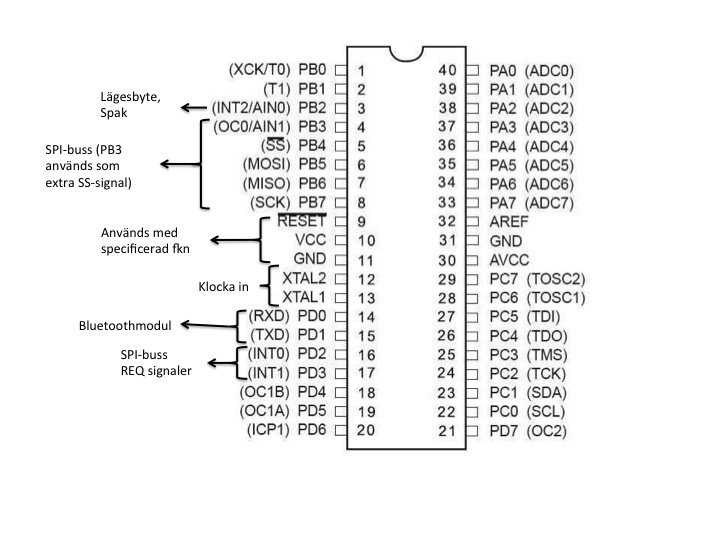
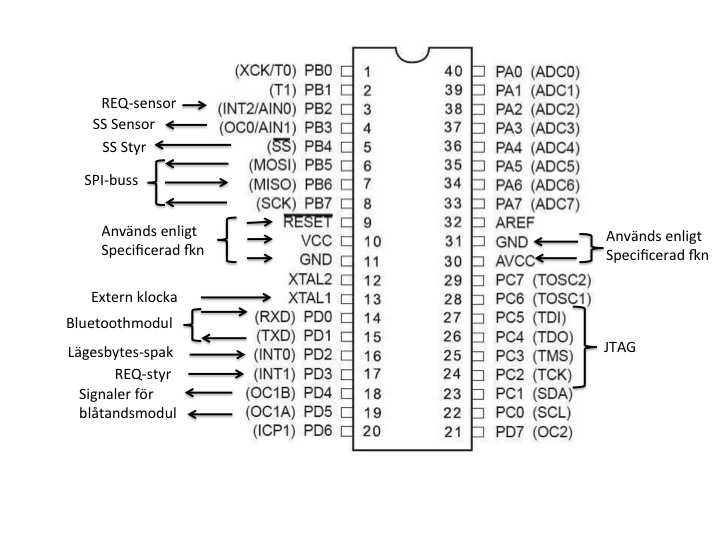
Jobbat på tek-rapport

Changed region(s): [[0.0611, 0.0593, 0.9778, 0.8593], [0.1222, 0.5333, 0.2444, 0.563]]

diff --git a/Dokumentation/Tekniskt_Dokumentation/komm.tex b/Dokumentation/Tekniskt_Dokumentation/komm.tex
@@ -1,6 +1,7 @@
 \section{Kommunikationsenhet}
-Kommunikationsenheten ansvarar för att förmedla information mellan de olika enheterna i systemet. Kommunikationsenheten består av en AVR ATmega16 och en Fireflymodul. 
-Kommunikationen mellan PCn och roboten kommer att ske via blåtand. Kommunikation mellan de olika delsystemen på roboten kommer att ske med en så kallad SPI-buss. SPI-bussens olika anslutningar kan betraktas i figur \ref{fig:spibuss}. Hur de olika pinnarna på processorn ska anslutas kan betraktas i figur \ref{fig:PINkomm}.
+Kommunikationsenheten ansvarar för att förmedla diverse olika sorters information mellan de olika enheterna i systemet. Kommunikationsenheten består av en AVR ATmega16 och en Fireflymodul. Processorn klockas av en 4 MHz klocka som också klockar resten av systemet. 
+
+Kommunikationen mellan PCn och roboten sker via blåtand. Kommunikation mellan de olika delsystemen på roboten sker med en så kallad SPI-buss. SPI-bussens olika anslutningar kan betraktas i figur \ref{fig:spibuss}. Hur de olika pinnarna på processorn är anslutna kan betraktas i figur \ref{fig:PINkomm}.
 
 \begin{figure}[H]
   \centering
@@ -40,52 +41,45 @@ header.
 
 \subsection{SPI}
 \label{sec:SPI}
-SPI bussen är ett kommunikationssystem som använder ett så kallat Master-Slav system. I roboten kommer kommunikationsenheten att vara ensam Master. Systemet kommer att ha två slavar i form av styrenheten och sensorenheten.
-Detta betyder att all kommunikation kommer att behöva gå via kommunikationsenheten. SPI-bussen arbetar alltid i så kallat full duplex läge vilket betyder att överföringar kan ske i två riktningar samtidigt. Således kan 2 bits skickas via SPI-bussen på 1 klockcykel. 
+SPI bussen är ett kommunikationssystem som använder ett så kallat Master-Slav system. I robotens system är kommunikationsenheten ensam Master. Systemet har två slavar i form av styrenheten och sensorenheten.
+Detta betyder att all kommunikation behöver gå via kommunikationsenheten. SPI-bussen arbetar alltid i så kallat full duplex läge vilket betyder att överföringar kan ske i två riktningar samtidigt. Alla överföringar i systemet sker med två bytes åt gången, en headerbyte som bland annat innehåller adressen och en databyte. För med information om detta, se \ref{sec:Protokoll}. När kommunikationsenheten avslutat en överföring så analyseras alltid headerbyten, som mottagits genom tvåvägskommunikationen, innan nästa externa överföringsefterfrågan behandlas.
 
-Robotens kommunikationssystem kommer att fungera så att styr- och sensorenheten har möjlighet att ta initiativ till överföringar till och från kommunikationsenheten. Detta är inte standard på SPI-bussen utan löses med två stycken extrasignaler vi kommer att kalla för REQ-signaler. Alla sorters kommunikation kommer att styras med hjälp av avbrott, vilket är ett utmärkt sätt att hantera plötsliga externa kommandon. REQ signalen kommer att generera ett avbrott hos mastern som i sin tur kommer att generera ett avbrott på enheten som skickat REQ signalen. Då mastern initierar kontakten kommer ett avbrott att genereras på den valda enheten. Alla SPI-överföringar avslutas med att en speciell avbrottsflagga, kallad SPIF, sätts.
+Robotens kommunikationssystem fungerar så att styr- och sensorenheten har möjlighet att ta initiativ till överföringar till och från kommunikationsenheten. Detta är inte standard på SPI-bussen utan löses med två stycken extrasignaler, så kallade REQ-signaler. Alla sorters kommunikation kommer att styras med hjälp av avbrott, vilket är ett utmärkt sätt att hantera plötsliga externa kommandon. Då någon av slavarna vill påbörja en överföring sätts enhetens REQ signal hög, vilket genererar ett avbrott hos mastern. Är mastern upptagen då en hög REQ signal skickas så får enheten vänta på att mastern avslutat den pågående överföringen. Efter att mastern blivit uppmärksammad om att en överföring efterfrågas sätts SS-signalen till den berörda enheten låg. Överföringen startas i det ögonblick som mastern skriver något till det temporära SPI-registret, SPDR. I detta ögonblick så börjar mastern också dela ut en klockpuls för överföringen till slavarna. I detta läge och framåt görs ingen skillnad på huruvida det var slaven eller mastern som initierade överföringen. Alla SPI-överföringar avslutas med att en speciell avbrottsflagga, kallad SPIF, sätts. När detta sker kommer båda parterna i överföringen att spara undan den mottagna datan. Då alla SPI överföringar sker med 8 bitar upprepas denna procedur två gånger för varje överföring.
 
-För att klargöra vart informationen som skickas till kommunikationsenheten ska sändas vidare kommer det att användas en så kallad header. Detta är en byte med information som specificerar vilken typ av information som skickas och vad som är målet mer. Mer information om denna hittas under \ref{sec:Protokoll}.
+Nedan följer klargöranden om hur de olika portarna i SPI-bussen. 
 
-Nedan följer klargöranden om hur projektgruppen ämnar använda de olika portarna i SPI-bussen. 
+\subsubsection{SCK}
 
-
-\subsubsection{CLK}
-
-CLK porten är en port som förmedlar en klocka med en viss frekvens från mastern till de två slavarna. Denna signal bestämmer hur snabbt överföringen ska ske. Denna klockfrekvens har en övre begränsning till halva frekvensen hos masterenhetens arbetsklocka.
+SCK porten är en port som förmedlar en klocka med en viss frekvens från mastern till de två slavarna. Denna signal bestämmer hur snabbt överföringen ska ske. Klockan kommer börjar skickas då mastern skriver något till dess temporära SPI dataregister, SPDR. När detta skett skickas totalt 8 pulser vilket överför 8 bitar i båda riktningar. Mastern och slaven är konfigurerade för att överföringens olika skeden ska ske samtidigt i klockcykeln. I robotens system används frekvensen 250 kHz, det vill säga 1/16-del av arbetsklockan på 4 MHz för överföringar. Detta är inte den snabbast möjlig överföringshastigheten och kan enkelt förändras vid behov av snabbare överföringar. Den övre begränsningen i överföringshastighet är hälften av arbetsklockan, det vill säga 2 MHz.
 
 
 \subsubsection{MOSI}
-MOSI porten är den port som används när kommunikationsenheten ska förmedla
+MOSI porten är den port som används när kommunikationsenheten ska skicka 
 information till styrenheten och sensorenheten. Den kommer alltså att användas som
-input för slavarna och output för mastern. Den information som kommer att
-skickas beror på i vilket läge roboten arbetar i. I fjärrstyrt läge kommer det
-genom MOSI portarna förmedlas styrinformation till styrenheten som
-kommunikationsenheten i sin tur får från en PC via blåtand. I autonomt läge
-kommer här t.ex. att skickas data som sensorenheten använder vid
-reglering av de två hjulens hastigheter. Annan information som kommer att skickas via MOSI är
-specialbeslut, till exempel om roboten måste svänga 90\degree i en labyrint.
+input för slavarna och output för mastern. Exempel på information som skickas här är data, med tillhörande header, som skickas till styrenheten från sensorenheten för att reglera de båda hjulens hastighet.
 
 \subsubsection{MISO}
-MISO porten kommer användas då kommunikationsenheten hämtar information från styr- och sensorenheten. Den kommer alltså att vara en input för mastern och output för båda slavarna. Exempel på information som ska skickas med MISO är data som skickas från sensorenheten för vidare transport till styrenheten.
-Då all kommunikation med SPI är tvåsidig kommer även MOSI porten att användas varje gång MISO porten används och viceversa. Finns det inget intresse av dubbelsidig kommunikation finns möjligheten att ignorera skickad data.
+MISO porten används då kommunikationsenheten hämtar information från styr- och sensorenheten. Den är alltså att vara en input för mastern och output för båda slavarna. Exempel på information som skickas med MISO är information om att ett speciellt beslut tagits i sensorenheten. Den header som alltid skickas med specificerar adressen för datat, i detta fall både PCn och styrenheten.
+Då all kommunikation med SPI är tvåsidig används även MOSI porten varje gång MISO porten används och viceversa.
 
 \subsubsection{SS}
-SS portarna skickar eller tar emot en variant på en chip-select signal. Den SS signal som är låg väljer vilken av slavarna som mastern ska kommunicera med. Endast en av de två SS signalerna kan vara låg samtidigt. Dessa portar kommer att vara output på kommunikationsenheten och input på styr- och sensorenheten.
-När SS signalen till en av slavarna är låg betyder det alltså att slavens SPI är aktiverad. Ett avbrott kommer att göras på den valda slaven och när olika konfigurationer utförts, och en klockfrekvens levererats från masterenheten, kommer information att börja skickas till den enhet som har en låg SS signal. Den enhet som får en hög SS signal kommer att ha sin SPI inaktiv och kommer inte att påverkas av denna överföring.
-När sändningen är klar sätts SPI avbrottsflaggan (SPIF) i både mastern(kommunikationsenheten) och slaven(någon av styr- eller sensorenheten). Denna flagga bekräftar att överföringen är färdig och SS signalen kan åter sättas hög av kommunikationsenheten.
+SS portarna skickar eller tar emot en variant på en chip-select signal. Den SS signal som är låg väljer vilken av slavarna som mastern ska kommunicera med. Endast en av de två SS signalerna får vara låg samtidigt för att undvika busskonflikter. Dessa portar kommer att vara output på kommunikationsenheten och input på styr- och sensorenheten.
+En låg SS signal hos någon av slavarna är låg betyder att slavens SPI är aktiverad, förutsatt att nödvändiga bitar satts i slavens SPI-kontrollregister. Överöringens start genererar inget avbrott hos slaven, utan sker istället parallellt med övrig aktivitet hos slaven. Då överföringen avslutats genereras ett avbrott där slaven sparar undan den skickade byten. Är det den första byten i överföringen som skickats får efter det att kommunikationsenheten sparat undan datan och genom en hög REQ signal fått bekräftelse att den berörda slaven gjort detsamma. En enhet som får en hög SS signal kommer att ha sin SPI inaktiv och kommer inte att påverkas av överföringar på bussen.
+Efter att två bytes överförts sätts SS signalen åter hög och mastern påbörjar en analys av den skickade headern och om denna specificerar att den mottagna datan ska skickas någonstans.
 
 \subsubsection{REQ}
-REQ portarna används av styr- och sensorenheten för att uppmärksamma kommunikationsenheten om att dem har ny information att förmedla. När kommunikationsenheten tar emot en signal på någon av REQ portarna kommer det att generera ett avbrott. Under avbrottet kommer SS signalen till enheten som begärt kommunikation att sättas låg och kommunikationen påbörjas.  REQ portarna kommer att ha en avbrottsnivå som understiger det avbrott som är aktivt vid pågående kommunikation.
+REQ portarna används av styr- och sensorenheten för att uppmärksamma kommunikationsenheten om att de har ny information att förmedla. När kommunikationsenheten tar emot en signal på någon av REQ portarna kommer det att generera ett avbrott. Under avbrottet kommer SS signalen till enheten som begärt kommunikation att sättas låg och kommunikationen påbörjas. Då mastern kan vara upptagen i det ögonblick då den mottar en hög REQ-signal så låter slavarna REQ-signalen vara hög tills dess att överföringen är färdig då den sätts låg. 
+
+REQ signalen används också för att bekräfta att slavarna sparat undan en headerbyte och är redo att ta emot en databyte.
 
 \subsubsection{Synkronisering}
-För att överföringar i systemet ska fungera är det viktigt att masterenhetens och slavenheterernas SPI har samma konfiguration i vissa avseenden. Den kanske viktigaste konfigurationen är vilka moment i överföringen som ska ske på stigande och fallande flank i klockpulsen. I robotens hårdvara finns 4 olika konfigurationslägen. Vilket läge som används kontrolleras av två bitar i ett kontrollregister till respektive enhets SPI. Det är av yttersta vikt att alla enheter i roboten som använder SPI är inställda på samma läge.
+För att överföringar i systemet ska fungera är det viktigt att masterenhetens och slavenheterernas SPI har samma konfiguration i vissa avseenden. Den kanske viktigaste konfigurationen är vilka moment i överföringen som ska ske på stigande och fallande flank i klockpulsen. I robotens hårdvara finns 4 olika konfigurationslägen. Vilket läge som används kontrolleras av två bitar i ett kontrollregister till respektive enhets SPI. I roboten sätts inte någon av dessa bitar i någon av enheterna.
 
 \subsubsection{Exempel}
 
-När roboten befinner sig i labyrint-läge har sensorenheten gjort en ny avläsning som resulterar i beslutet att en 90\degree kurva är nödvändig. Den vill distribuera denna information vidare. Sensorenheten sätter då en hög utsignal på sin REQ port vilket resulterar i ett avbrott på kommunikationsenheten. Kommunikationsenheten för närvarande är för närvarande upptagen med överföring av reglerdata till styrenheten, så avbrottet kommer att få vänta tills denna överföring är klar.
+När roboten befinner sig i labyrint-läge har sensorenheten gjort en ny avläsning som resulterar i beslutet att en 90\degree kurva är nödvändig. Den vill distribuera denna information vidare. Sensorenheten sätter då en hög utsignal på sin REQ port vilket resulterar i ett avbrott på kommunikationsenheten. Kommunikationsenheten för närvarande är för närvarande upptagen med överföring av reglerdata till styrenheten, så avbrottet får vänta tills denna överföring är klar. Under denna väntan är sensorenhetens REQ signal fortsatt hög.
 
-I avbrottet på kommunikationsenheten så sätts SS signalen till sensorenheten låg, och därefter förmedlar kommunikationsenheten en klockpuls till sensorenheten. När två bytes överförts, en headerbyte och en databyte, så avslutas överföringen och SS signalen till sensorenheten sätts åter hög. Efter att ha tolkat headerbyten så sätter kommunikationsenheten SS signalen till styrenheten låg, samt genererar en klockpuls till styrenheten. Detta genererar ett avbrott i styrenheten som tar emot de två byten som härstammar från sensorenheten. När överföringen är färdig sätts SS signalen till styrenheten återigen hög vilket avslutar överföringen. 
+I avbrottet på kommunikationsenheten så sätts SS signalen till sensorenheten låg, och därefter förmedlar kommunikationsenheten en klockpuls till sensorenheten. När två bytes överförts, en headerbyte och en databyte, så avslutas överföringen och SS signalen till sensorenheten sätts åter hög. Efter att headerbyten tolkats så sätter kommunikationsenheten SS signalen till styrenheten låg, samt genererar en klockpuls till styrenheten. När överföringen av två bytes är färdig sätts SS signalen till styrenheten återigen hög vilket avslutar överföringen. 
 
 Då headerbyten innehöll information om att detta var ett styrbeslut så ska kommunikationsenheten också skicka detta till PCn. Detta görs via en UART port på kommunikationsenheten.
 
@@ -94,7 +88,7 @@ De olika enheternas roll i detta exempel åskådliggörs nedan i ett schema, se 
 
 \begin{figure}[H]
  \centering
-\includegraphics[angle=0,scale=0.7]{bilder/Schema_exempel.png}
+\includegraphics[angle=0,scale=0.7]{bilder/schema_exempel.jpg}
   \caption{Schema över de olika enheternas metodik vid exempelöverföringen}
   \label{fig:schema}
 \end{figure}

diff --git a/Kod/sensor/sensorvarde_omvandling.c b/Kod/sensor/sensorvarde_omvandling.c
@@ -1,0 +1,79 @@
+/*-----------------------------------------------------------------------------
+ *  Xomvandling
+ *      input:  sensorvarde: ett varde för avstandet pa en ickelinjar skala
+ *      output: Avstandet i cm
+ *-----------------------------------------------------------------------------*/
+#include<stdio.h>
+#include<stdlib.h>
+#include<math.h>
+#include"sensorvarde_omvandling.h"
+
+
+int hogeromvandling(int sensorvarde){
+	
+	int cmvarde;
+
+	if(sensorvarde<=123 && sensorvarde>=94){
+		cmvarde=round((151-sensorvarde)/1.44);
+
+	}
+	else if(sensorvarde<=93 && sensorvarde>=82){
+		cmvarde=round((121-sensorvarde)/0.68);
+	}
+	else if(sensorvarde<=81 && sensorvarde>=66){
+		cmvarde=round((91-sensorvarde)/0.21);
+	}
+	else if(sensorvarde>=124){
+		cmvarde=20;
+	}
+	else{
+		cmvarde=120;
+	}
+	return cmvarde;
+}
+
+int vansteromvandling(int sensorvarde){
+	
+	int cmvarde;
+
+	if(sensorvarde<=125 && sensorvarde>=78){
+		cmvarde=round((177-sensorvarde)/2.56);
+
+	}
+	else if(sensorvarde<78 && sensorvarde>=46){
+		cmvarde=round((125-sensorvarde)/1.26);
+	}
+	else if(sensorvarde<=45 && sensorvarde>=24){
+		cmvarde=round((72-sensorvarde)/0.4);
+	}
+	else if(sensorvarde>=126){
+		cmvarde=20;
+	}
+	else{
+		cmvarde=120;
+	}
+	return cmvarde;
+}
+
+int framomvandling(int sensorvarde){
+	
+	int cmvarde;
+
+	if(sensorvarde<=127 && sensorvarde>=77){
+		cmvarde=round((183-sensorvarde)/2.71);
+
+	}
+	else if(sensorvarde<77 && sensorvarde>=50){
+		cmvarde=round((128-sensorvarde)/1.31);
+	}
+	else if(sensorvarde<50 && sensorvarde>=26){
+		cmvarde=round((73-sensorvarde)/0.43);
+	}
+	else if(sensorvarde>=128){
+		cmvarde=20;
+	}
+	else{
+		cmvarde=120;
+	}
+	return cmvarde;
+}

diff --git a/Kod/sensor/sensorvarde_omvandling.h b/Kod/sensor/sensorvarde_omvandling.h
@@ -1,0 +1,18 @@
+/*
+ *  sensorvarde_omvandling.h
+ *  
+ *
+ *  Created by Markus Lothström on 2012-04-15.
+ *  Copyright 2012 Umeå Universitet. All rights reserved.
+ *
+ */
+
+#ifndef sensorvarde_omvandling_H
+#define sensorvarde_omvandling_H
+
+int hogeromvandling(int sensorvarde);
+int vansteromvandling(int sensorvarde);
+int framomvandling(int sensorvarde);
+
+#endif
+
